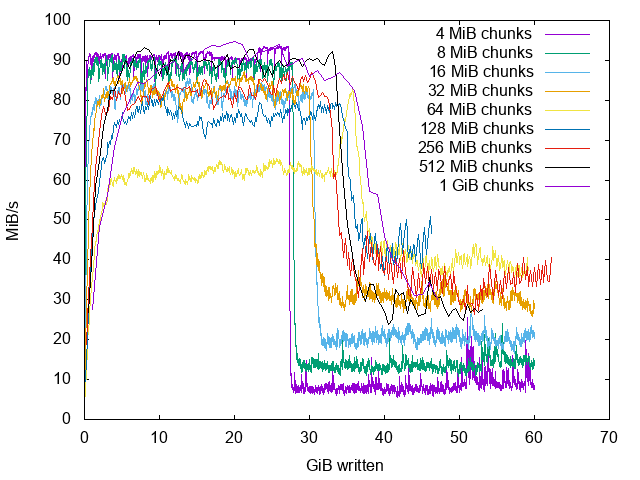
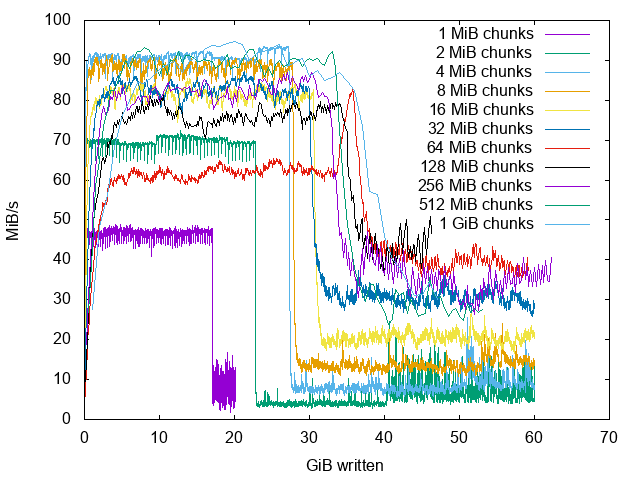
made for each chunk size a seperate noisy PNG

diff --git a/README.md b/README.md
@@ -43,7 +43,17 @@ Here the very noisy log visualized:
 ```
 # gnuplot noisy.txt
 ```
-![noisy log](noisy.png)
+![1MiB log](1MiB.png)
+![2MiB log](2MiB.png)
+![4MiB log](4MiB.png)
+![8MiB log](8MiB.png)
+![16MiB log](16MiB.png)
+![32MiB log](32MiB.png)
+![64MiB log](64MiB.png)
+![128MiB log](128MiB.png)
+![256MiB log](256MiB.png)
+![512MiB log](512MiB.png)
+![1GiB log](1GiB.png)
 
 Using exponential moving average to smooth out a little:
 (FYI: EMA filtering causes nonlinear phase delays.)
